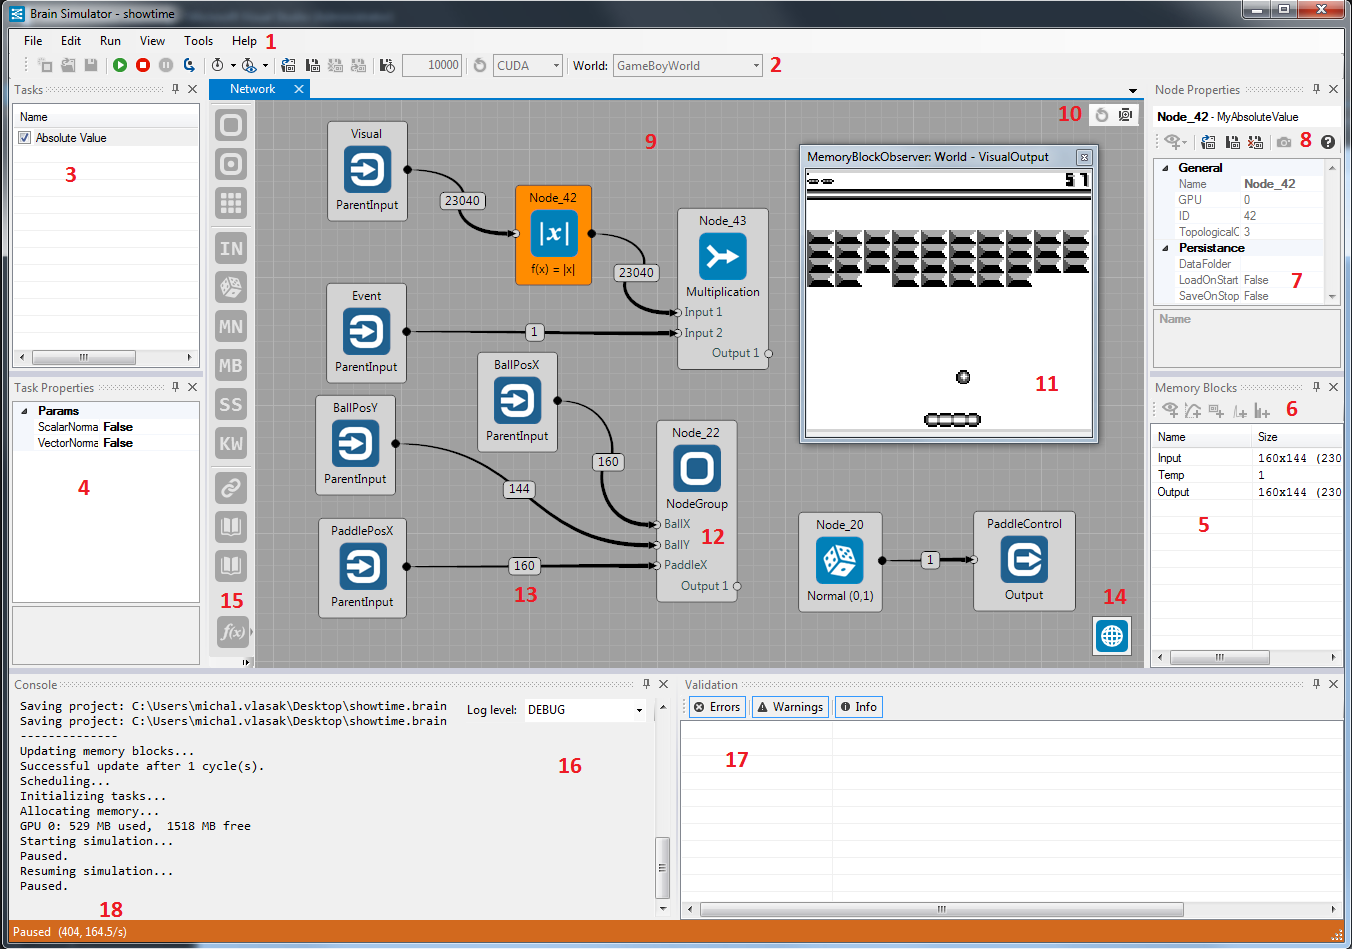
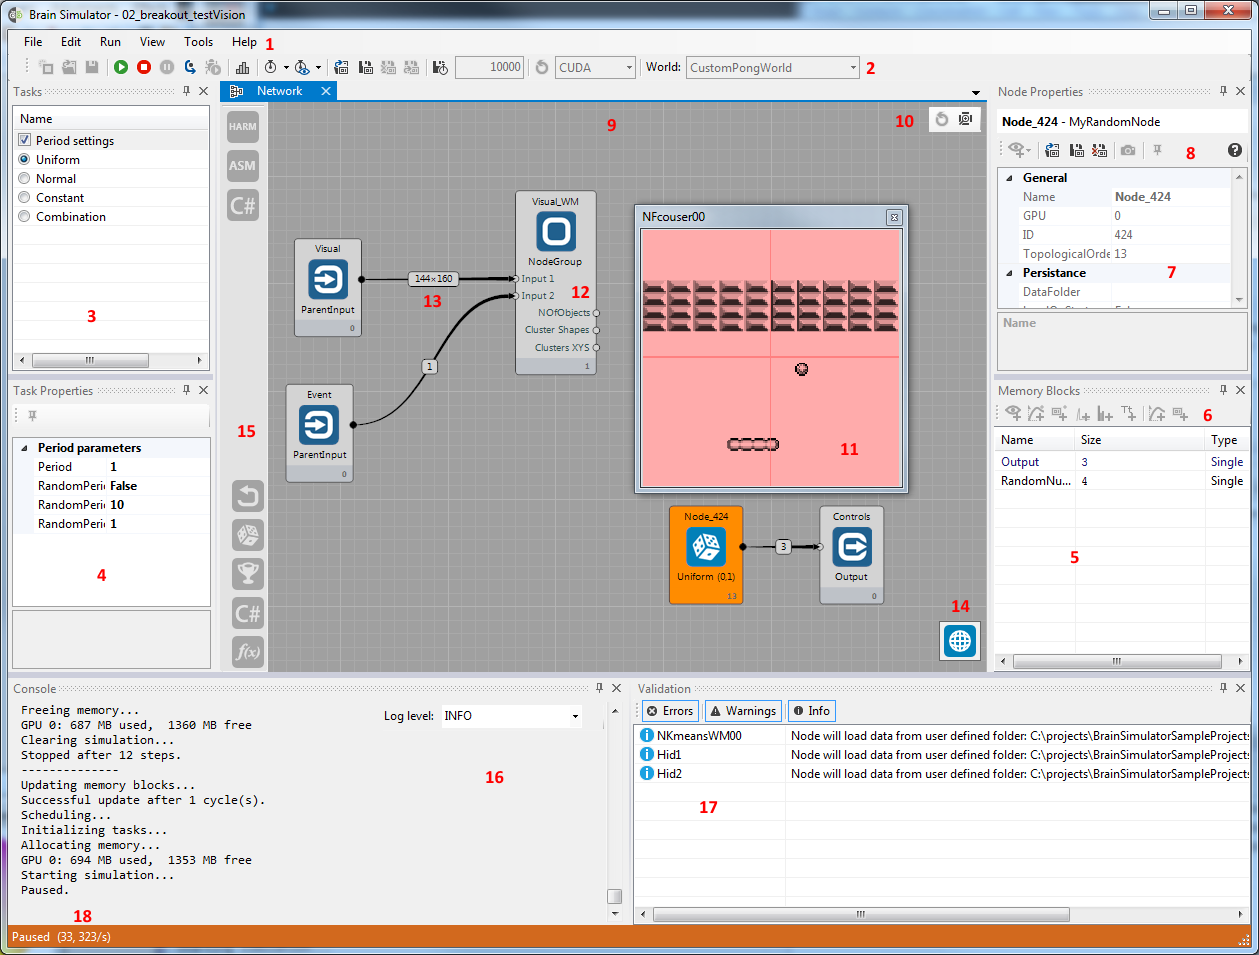
Updating UI docs, added dashboard and debugging window

diff --git a/Doc/BrainSimulator Guide/docs/ui.md b/Doc/BrainSimulator Guide/docs/ui.md
@@ -34,6 +34,7 @@ We tried to keep the UI as simple as possible, you can see the basic controls of
 * **Save Project As..., CTRL+SHIFT+S** - save project with dialog
 * List of recently opened projects
 * **Load User Nodes** - load nodes from custom XML file
+* **Set global data folder** - choose a custom location where global data will be saved
 * **Quit** - quits Brain Simulator
 
 #### Edit
@@ -51,13 +52,18 @@ It should be mentioned, that nodes are stored as XML text in a clipboard. Thanks
 * **Pause, F7** - pauses the simulation
 * **Stop, F8** - stops the simulation
 * **Step Over, F10** - runs the simulation for 1 step
+* **Step Into, F11** - in debug mode, steps into the current execution block
+* **Step Out, Shift+F11** - in debug mode, steps out of the current execution block
 
 #### View
 ![View](img/menu-view.png)
 
-* **Network, Node Properties, Tasks, Task Properties, Console, Validation** - Opens various Brain Simulator windows (9, 7, 3, 4, 16, 17)
+* **Network, Node Properties, Memory Blocks, Tasks, Task Properties, Console, Validation** - Opens various Brain Simulator windows (9, 7, 3, 4, 16, 17)
+* **Dashboard Properties** - opens the [dashboard](ui.md#dashboard)
 * **Node help, F1** - opens documentation for currently selected node
-* **Configure node selection..., CTRL+L** - opens configuration window, where you can choose which nodes should be visible in Nodes toolstrip (15) and which Worlds in Simulation controls (2)
+* **Debugging / Profiling** - opens the window with debugging and profiling information
+* **Reset Views Layout, Ctrl+W** - Discards any custom window layout settings in Brain Simulator 
+* **Configure node selection..., Ctrl+L** - opens configuration window, where you can choose which nodes should be visible in Nodes toolstrip (15) and which Worlds in Simulation controls (2)
 
 #### Tools
 ![Tools](img/menu-tools.png)
@@ -65,7 +71,7 @@ It should be mentioned, that nodes are stored as XML text in a clipboard. Thanks
 * **Update Memory Blocks, F4** - updates all memory blocks (this is automatically done when starting the simulation)
 
 #### Help
-![Help](img/menu-help.png)
+![Help](img/menu-guide.png)
 
 * **Guide..., CTRL+F1** - opens this documentation page
 
@@ -77,6 +83,8 @@ Some of these are just shortcuts for menu items. Left to right:
 * **New/Open/Save Project**
 * **Run/Stop/Pause Simulation**
 * **Step Over**
+* **Start debugging**
+* **Enable profiling** - starts collecting information about the various tasks' execution duration and shows the results in the **Debugging / Profiling** window as well as the main graph view of the model
 * **Sleep Interval** - after each simulation step, Brain Simulator sleeps for X ms; used for slowing down the simulation
 * **Report Interval** - observers are rendered each X ms
 *  **Global Load on Start** - toggle; all nodes that have their own persistence data files with the state load them on start of the simulation
@@ -105,6 +113,7 @@ Left to right:
 * **Load Data on Startup** - toggle; loads node's specific state data on the simulation start
 * **Save Data on Stop** - toggle; saves node's specific state data on the simulation stop
 * **Autosave Snapshot** - save observer snapshot (as .PNG) to %userprofile%\Documents\bs_snapshots
+* **Pin to Dashboard** - Pin the selected property to the Dashboard Properties
 * **Help, F1** - opens the documentation for the selected node
 
 ### <a name="workspace-controls">Workspace Controls</a>
@@ -124,6 +133,21 @@ Left to right:
 * **Current simulation step**
 * **Speed of simulation** - in steps per second
 
+### Dashboard
+![Dashboard Properties](img/dashboard.png)
+
+The dashboard is opened from the View menu. Task and node properties can be pinned to the dashboard, which allows for easy property manipulation from one place in the UI. Once pinned, the properties appear in the top property grid of the dashboard, grouped by node name. Task properties will display the name of the task as a prefix.
+
+You can create groups for properties in the second window. The groups can have arbitrary name and properties can be added into them as long as they have the same type. The type of the group is set once the first property is added and is displayed next to its name together with the count of grouped properties. The list of properties in the selected group is in the bottommost part of the dashboard, from where the properties can be removed back into the non-grouped part of the dashboard. If you change the value of a property, all its member properties will have their values changed.
+
+### Debugging / Profiling
+![Debugging / Profiling](img/debug.png)
+
+In this window, you can see the execution plan of your simulation. In **debug** mode, you can **step over, into and out** of single executables. You can also set breakpoints in **debug** mode. The simulation will then always run only up to the first encountered breakpoint.
+
+Only **step over** will be available in normal mode and it will perform one step of the whole simulation.
+
+If you turn on the **profiling** feature, you'll see times of the individual executables. When you select any non-leaf node of the execution tree, you'll see its direct siblings colored in either various shades of red according to the portions of time they take from the total time of the node, or in light green for those that take less than 5%.
 
 ### Node Group
 Node group serves for joining multiple nodes into one topological object, which looks like just one node in the workspace. You can change number of I/O connections of the node group in its node parameters window (7).
